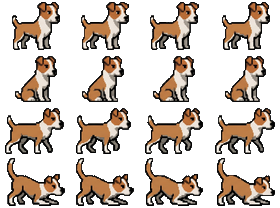
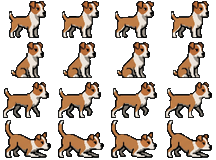
v5.54: Jack Russell do tamanho do Schnauzer
Claude-Session: https://claude.ai/code/session_016SegfhJSHDTXjMwqePjPmg

Changed region(s): [[0.25, 0.0, 0.7222, 1.0], [0.0, 0.0, 0.25, 1.0], [0.75, 0.0, 1.0, 1.0]]

diff --git a/assets/js/app.js b/assets/js/app.js
@@ -1466,7 +1466,7 @@
     frajola: { nome: 'Frajola', arq: 'assets/img/pet/frajola.png', CW: 51, CH: 38, fala: 'MIAU!', som: 'miado' },
     shollie: { nome: 'Shollie', arq: 'assets/img/pet/shollie.png', CW: 62, CH: 42, fala: 'AU AU!', som: 'latido' },
     schnauzer: { nome: 'Schnauzer', arq: 'assets/img/pet/schnauzer.png', CW: 54, CH: 40, fala: 'AU! AU!', som: 'latido' },
-    jackrussell: { nome: 'Jack Russell', arq: 'assets/img/pet/jackrussell.png', CW: 70, CH: 52, fala: 'AU AU AU!', som: 'latido' }
+    jackrussell: { nome: 'Jack Russell', arq: 'assets/img/pet/jackrussell.png', CW: 54, CH: 40, fala: 'AU AU AU!', som: 'latido' }
   };
   /** Cores da casinha (parede, luz da parede, telhado, luz do telhado, rodapé): clicar na casinha troca. */
   const PET_CASAS = [

diff --git a/assets/js/atualizacoes.js b/assets/js/atualizacoes.js
@@ -10,6 +10,12 @@
    neste navegador, e pode ser reaberto pelo menu da foto de perfil. */
 window.ATUALIZACOES = [
   {
+    versao: '5.54',
+    data: '2026-11-16',
+    titulo: 'Jack Russell do tamanho dos outros',
+    itens: ['O Jack Russell agora tem o mesmo tamanho do Schnauzer.']
+  },
+  {
     versao: '5.53',
     data: '2026-11-16',
     titulo: 'Novo pet: Jack Russell',

diff --git a/docs/historico/README.md b/docs/historico/README.md
@@ -6,7 +6,8 @@
 |---|---|---|---|
 | v4.0 | `2026-11-13_v4-modo-trabalho/` | A v3.5 mais músicas como mini app, modo trabalho (Shift + Espaço), bento nas coleções e menus reordenáveis. | Faltava guardar imagens como em um mural de referências. |
 | v4.5 | `2026-11-13_v4.5-antes-do-pwa/` | A v4.1 mais Imagens, boas-vindas, emoji do dia e notas soltas na coleção. | Pedido: transformar em aplicativo instalável (PWA). |
-| v5.53 (atual) | sem captura ainda; registrar aqui antes da próxima mudança visual | Novo pet: Jack Russell. | — |
+| v5.54 (atual) | sem captura ainda; registrar aqui antes da próxima mudança visual | Jack Russell no tamanho do Schnauzer. | — |
+| v5.53 | sem captura ainda; registrar aqui antes da próxima mudança visual | Novo pet: Jack Russell. | — |
 | v5.52 | sem captura ainda; registrar aqui antes da próxima mudança visual | Reordenar tarefas arrastando, com cartões que deslizam. | — |
 | v5.51 | sem captura ainda; registrar aqui antes da próxima mudança visual | Pets: viradas calmas na bolinha e botão Bolinha nos ajustes. | — |
 | v5.50 | sem captura ainda; registrar aqui antes da próxima mudança visual | Limpeza: nome Tyba nos docs, avatar neutro, dados pessoais fora de data/. | — |

diff --git a/docs/ATUALIZACOES.md b/docs/ATUALIZACOES.md
@@ -8,6 +8,10 @@ Como escrever: uma linha por novidade, do jeito que a pessoa percebe na tela —
 
 ---
 
+## 5.54 — 16/11/2026 · Jack Russell do tamanho dos outros
+
+- O Jack Russell agora tem o mesmo tamanho do Schnauzer.
+
 ## 5.53 — 16/11/2026 · Novo pet: Jack Russell
 
 - O Jack Russell entrou na lista de pets (botão Pets do cenário): parado, sentado, andando e abaixado, como os outros.
